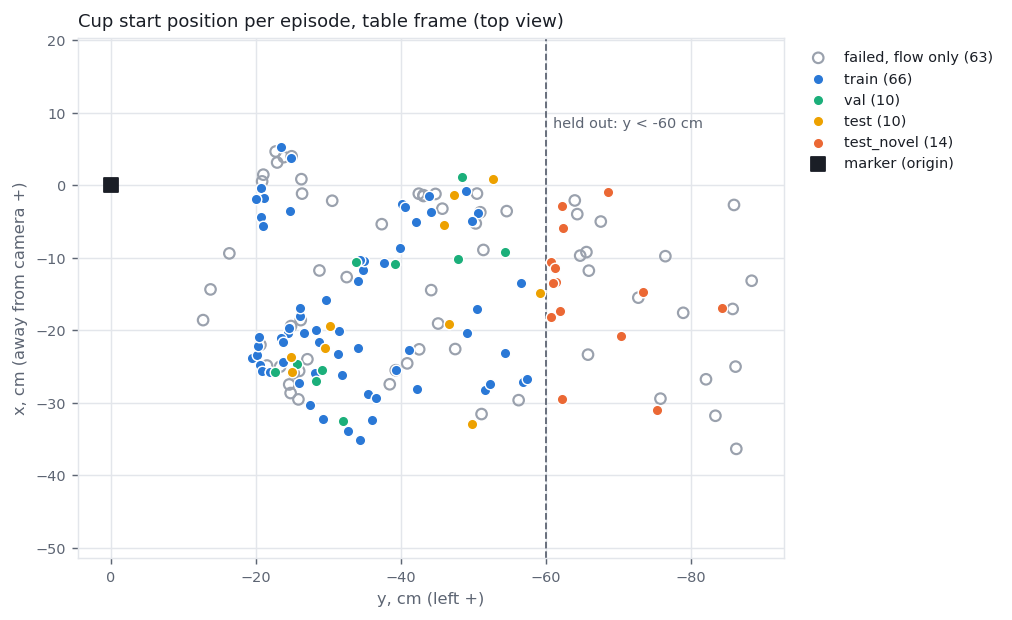
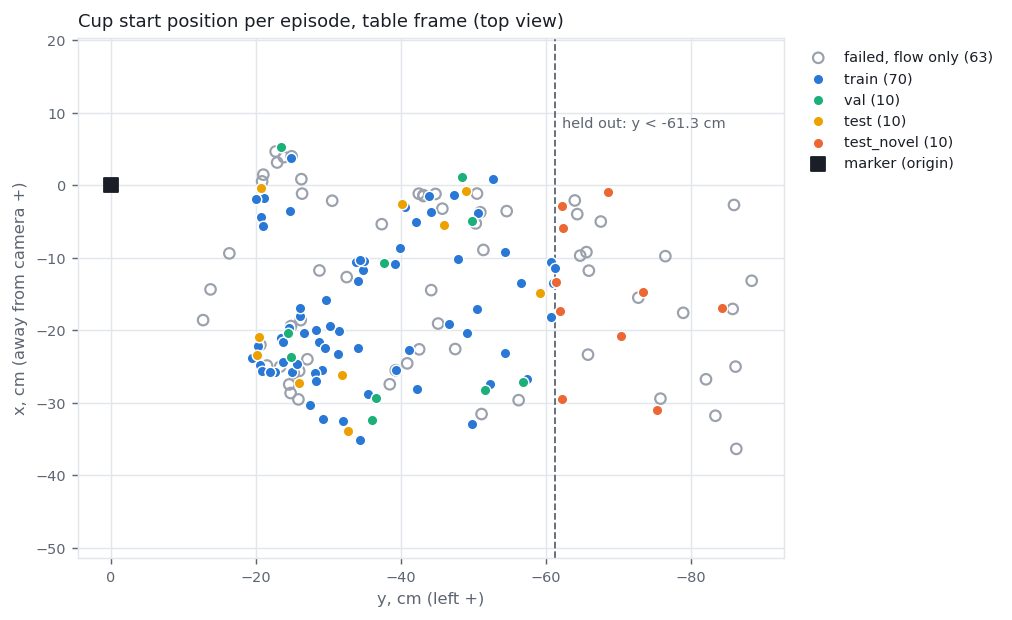
4.5: held-out line at cup y < -61.3 cm: train 70 / val 10 / test 10 / test_novel 10

diff --git a/docs/steps/4.5-split.html b/docs/steps/4.5-split.html
@@ -45,18 +45,18 @@ img.result { display: block; width: 100%; max-width: 100%; border-radius: 6px; b
   </header>
 
   <figure>
-    <img class="result" src="media/phase4/task5/splits.png" alt="Top view of the table frame with one dot per episode at the cup's start position, coloured by split. Train, val and test dots fill y from -19 to -59 cm; the 14 test_novel dots all lie beyond the dashed line at y = -60 cm; failed episodes are hollow grey rings, many of them beyond the line too.">
-    <figcaption>Cup start position per episode (mean of the mug flow points at the first step), table frame. Dashed line: held-out region, y &lt; −60 cm.</figcaption>
+    <img class="result" src="media/phase4/task5/splits.png" alt="Top view of the table frame with one dot per episode at the cup's start position, coloured by split. Train, val and test dots fill y from -19 to -59 cm; the 10 test_novel dots all lie beyond the dashed line at y = -61.3 cm; failed episodes are hollow grey rings, many of them beyond the line too.">
+    <figcaption>Cup start position per episode (mean of the mug flow points at the first step), table frame. Dashed line: held-out region, y &lt; −61.3 cm.</figcaption>
   </figure>
 
   <div class="scroll">
     <table>
       <thead><tr><th>split</th><th>episodes</th><th>sim steps</th><th>cup y (cm)</th></tr></thead>
       <tbody>
-        <tr><th scope="row">train</th><td>66</td><td>12,195</td><td>−57 … −19</td></tr>
-        <tr><th scope="row">val</th><td>10</td><td>1,792</td><td>−54 … −23</td></tr>
-        <tr><th scope="row">test</th><td>10</td><td>1,845</td><td>−59 … −25</td></tr>
-        <tr><th scope="row">test_novel</th><td>14</td><td>2,790</td><td>−84 … −61</td></tr>
+        <tr><th scope="row">train</th><td>70</td><td>12,845</td><td>−61 … −19</td></tr>
+        <tr><th scope="row">val</th><td>10</td><td>1,938</td><td>−57 … −23</td></tr>
+        <tr><th scope="row">test</th><td>10</td><td>1,854</td><td>−59 … −20</td></tr>
+        <tr><th scope="row">test_novel</th><td>10</td><td>1,985</td><td>−84 … −61</td></tr>
         <tr><th scope="row">failed, flow only</th><td>45</td><td>–</td><td>−56 … −13</td></tr>
         <tr><th scope="row">failed in the held-out region (not for training)</th><td>18</td><td>–</td><td>−88 … −64</td></tr>
       </tbody>
@@ -64,8 +64,8 @@ img.result { display: block; width: 100%; max-width: 100%; border-radius: 6px; b
   </div>
 
   <ul class="notes">
-    <li>train / val / test: the 86 kept episodes outside the region, shuffled with seed 0.</li>
-    <li>The held-out region is also where replays fail most: 18 of the 63 failed episodes vs 14 of the 100 kept. There the cup is 0.8–1 m from the camera, where D405 depth reads 2–4% short.</li>
+    <li>test_novel: the 10 kept episodes with the cup furthest right. The line is tight: the nearest train episode is 2 mm inside it. train / val / test: the other 90, shuffled with seed 0.</li>
+    <li>The held-out region is also where replays fail most: 18 of the 63 failed episodes vs 10 of the 100 kept. There the cup is 0.8–1 m from the camera, where D405 depth reads 2–4% short.</li>
     <li>The sim cup always starts at one spot, so for the sim robot test_novel means new absolute flow positions and plate offsets, not a new cup spot in sim.</li>
     <li>data/README.md: where the data lives (16 GB, not in git), every file and array in an episode folder, frames and clocks, why the 65 dropped episodes were dropped, how to regenerate.</li>
   </ul>

diff --git a/data/split.py b/data/split.py
@@ -3,7 +3,7 @@
   python data/split.py
 
 Cup position = mean xy of the 8 mug flow points at step 0 (flow.npz, table frame). Kept episodes with the cup more
-than 60 cm to the right of the marker (y < -0.60 m) form test_novel: a table region no training episode starts in.
+than 61.3 cm to the right of the marker (y < -0.613 m; 10 episodes) form test_novel: a table region no training episode starts in.
 The other kept episodes are shuffled (seed 0) into val (10), test (10) and train (the rest). Failed episodes (no sim
 actions, flow only) are listed apart; the ones in the held-out region go to failed_novel and must not be trained on.
 Also writes media/phase4/task5/splits.png (top view of the cup positions by split).
@@ -15,7 +15,7 @@ import numpy as np
 
 DATA = Path(__file__).resolve().parent
 MEDIA = DATA.parent / "media" / "phase4" / "task5"
-NOVEL_Y_M = -0.60
+NOVEL_Y_M = -0.613
 N_VAL = N_TEST = 10
 SEED = 0
 
@@ -50,7 +50,7 @@ def plot(splits):
         ax.scatter(xy[:, 1], xy[:, 0], s=34, label=label, facecolor=colour if filled else "none",
                    edgecolor="white" if filled else colour, linewidth=1.2 if not filled else 0.8, zorder=3 if filled else 2)
     ax.scatter([0], [0], marker="s", s=60, color=ink, zorder=4, label="marker (origin)")
-    ax.text(NOVEL_Y_M * 100 - 1, 8, "held out: y < -60 cm", color=muted, fontsize=8, ha="left")
+    ax.text(NOVEL_Y_M * 100 - 1, 8, "held out: y < -61.3 cm", color=muted, fontsize=8, ha="left")
     ax.invert_xaxis()
     ax.set_aspect("equal", adjustable="datalim")
     ax.set_xlabel("y, cm (left +)", color=muted, fontsize=9)

diff --git a/PROJECT_PLAN.md b/PROJECT_PLAN.md
@@ -189,7 +189,7 @@ Dropped after step 1.9. Offline replay of a recorded video already gets the sim 
 - **4.3** `replay/record_sim.py` → `sim.npz` per kept episode: per control step (20 Hz) the action sent, joint position/velocity, gripper fingers, end-effector pose, cup/plate state, third-person camera (256 × 256) and gripper camera (128 × 128), plus the real-video time each step follows and the table → sim offset (sim grasp point − real grasp point) that puts the hand flow on the robot's path. Observations before each action. Third-person camera: LIBERO's agentview moved back and up (50° above the table, 1.7 m from the workspace centre, `sim/scene.py` THIRD_PERSON) because the plate left the default view in some episodes; it must be set after every reset (reset rebuilds the model). 100/101 succeed when recorded: 20261009_112930 failed (cup 1.5 cm from the plate centre; borderline set-down that passed in 4.2) and was moved to `data/mug_pnp_failed/`. **Dataset: 100 episodes**, 18,622 steps (142–265 per episode, median 177), 2.0 GB.
 - **4.4** `flow/run_flows.py`: per episode SAM 2 mug mask and timing (`flow/mug_sam.py`) → CoTracker hand + mug points → `flow.npz` (FORMAT.md) → `flow_overlay.mp4`; writes `<dataset>/flow_summary.json`. **Flow for 163/163 episodes with a hand track**: 100 kept + 63 failed (the other 2 failed episodes hung in MediaPipe and have no hand track). The step 3.4 click on the mug is replaced by SAM 2's automatic mask generator with a mug filter (area 2.5–30k px, h/w 0.85–1.9, fill > 0.6, median grey > 100; the mug in shadow is ~127, so the pilot's 140 missed it), picking the candidate nearest the hand's first pinch; in 3 failed episodes the mug was not found in frame 0 and the last frame was used. Masks propagated forwards and backwards. Grasp/release times now come from the mug's motion (mask base on the table plane moves > 2 cm from its start / is within 2 cm of its end), not from the hand, because the hand events are wrong in many failed episodes (e.g. 112033: hand grasp at 5.15 s, mug moves at 3.47 s); 12 failed episodes have no grasp from the hand track (no grasp found or hand lost) and still get a flow; in the others the hand events differ from the mug motion by up to 3.8 s. Kept episodes: the mug starts moving a median 0.54 s after the hand pinch closes (p10–p90 0.23–0.90 s) and stops 0.73 s before the hand opens (0.35–1.20 s); failed: −0.45…1.62 s and −1.07…1.50 s. 10,391 flow steps at 10 Hz (44–105 per episode). Hand visible median 98% (min 91%), mug visible median 88% kept / 85% failed (min 40% / 32%; the hand covers the mug while carrying). Run time 56 min on the RTX 5090 (6 test episodes done earlier). Checked by eye on the overlays of 6 test episodes and the 4 in the report, not on all 163. **Flow vs sim robot** (100 kept, `replay/record_sim.py --video --flow` projects the flow + sim_minus_real into the third-person camera): while carrying, the flow pinch point is a median 2 mm (max 2.3 cm) from the replay target, so the flow is the robot's commanded path; the gripper lags that target by ~0.2 s (4 steps): 5.4 cm median at the same step, 1.0 cm (p90 3.0 cm) with the lag removed. The mug flow + offset is a median 6.9 cm from the sim cup in xy at the start (fixed sim grasp spot vs where I grasped the real rim), so for the mug flow the offset should be from the cup, not the grasp point. **Flow on the robot's clock:** `flow/sim_clock.py` → `flow_sim.npz` per kept episode, one row per `sim.npz` step (20 Hz), flow.npz interpolated at the real time each sim step follows; the 55 inserted steps per episode (grasp settle/close, release hold/rise, final 1 s) hold the flow still. Same length as the robot data (median 177 steps vs 61 flow steps at 10 Hz on the real clock). Sample at sim step i = rows i:i+32:2 (FORMAT.md).
 
-- **4.5** `data/split.py` → `data/splits.json`, by episode. Cup position = mean xy of the mug flow points at step 0. **test_novel** = the 14 kept episodes with the cup > 60 cm to the right of the marker (y < −0.60 m); no other split starts there. The other 86, shuffled with seed 0: **train 66** (12,195 sim steps), **val 10**, **test 10**. Failed episodes with flow are listed as flow-only extra data: 45 outside the region, 18 inside (`failed_novel`, not to be trained on). The far-right region is where replays fail most: 18 of 63 failed vs 14 of 100 kept (cup 0.8–1 m from the camera, where D405 depth reads 2–4% short). In sim the cup always starts at one spot, so test_novel means new absolute flow positions and plate offsets for the policy, not a new sim cup position. `data/README.md` documents where the data lives, every per-episode file and key, the frames and clocks, and the drop reasons (65: 12 no grasp in the hand track, 6 hand lost, 2 MediaPipe hung, 8 cup not lifted, 36 put down 3–37 cm off the plate, 1 failed on the 4.3 re-run). `data/README.md`, `split.py` and `splits.json` are committed (`.gitignore` exceptions); the episodes are not.
+- **4.5** `data/split.py` → `data/splits.json`, by episode. Cup position = mean xy of the mug flow points at step 0. **test_novel** = the 10 kept episodes with the cup furthest right (y < −0.613 m; first −0.60 m with 14, moved to get train 70 / test_novel 10; the nearest train episode is 2 mm inside the line); no other split starts there. The other 90, shuffled with seed 0: **train 70** (12,845 sim steps), **val 10**, **test 10**. Failed episodes with flow are listed as flow-only extra data: 45 outside the region, 18 inside (`failed_novel`, not to be trained on). The far-right region is where replays fail most: 18 of 63 failed vs 10 of 100 kept (cup 0.8–1 m from the camera, where D405 depth reads 2–4% short). In sim the cup always starts at one spot, so test_novel means new absolute flow positions and plate offsets for the policy, not a new sim cup position. `data/README.md` documents where the data lives, every per-episode file and key, the frames and clocks, and the drop reasons (65: 12 no grasp in the hand track, 6 hand lost, 2 MediaPipe hung, 8 cup not lifted, 36 put down 3–37 cm off the plate, 1 failed on the 4.3 re-run). `data/README.md`, `split.py` and `splits.json` are committed (`.gitignore` exceptions); the episodes are not.
 
 ### Watch out for
 

diff --git a/data/README.md b/data/README.md
@@ -42,20 +42,20 @@ release threshold, so the robot let go mid-carry. Details per batch: `PROJECT_PL
 
 Split by episode. Cup position = mean xy of the 8 mug flow points at the first step (table frame).
 
-| split | episodes | sim steps | cup x (cm) | cup y (cm) |
-|---|---|---|---|---|
-| train | 66 | 12,195 | −35 … 5 | −57 … −19 |
-| val | 10 | 1,792 | −33 … 1 | −54 … −23 |
-| test | 10 | 1,845 | −33 … 1 | −59 … −25 |
-| test_novel | 14 | 2,790 | −31 … −1 | −84 … −61 |
-| failed (flow only) | 45 | – | −32 … 5 | −56 … −13 |
-| failed_novel (flow only) | 18 | – | −36 … −2 | −88 … −64 |
+| split | episodes | sim steps | cup y (cm) |
+|---|---|---|---|
+| train | 70 | 12,845 | −61 … −19 |
+| val | 10 | 1,938 | −57 … −23 |
+| test | 10 | 1,854 | −59 … −20 |
+| test_novel | 10 | 1,985 | −84 … −61 |
+| failed (flow only) | 45 | – | −56 … −13 |
+| failed_novel (flow only) | 18 | – | −88 … −64 |
 
-- `test_novel`: every kept episode with the cup more than 60 cm to the right of the marker (y < −0.60 m). No
-  train/val/test episode starts there. The rest are shuffled with seed 0.
+- `test_novel`: the 10 kept episodes with the cup furthest to the right of the marker (y < −0.613 m). No
+  train/val/test episode starts there, but the boundary is tight: the nearest train episode is 2 mm inside it. The rest are shuffled with seed 0.
 - `failed` episodes have flow but no sim actions; they can add flow-only training data (e.g. Phase 6).
   `failed_novel` are in the held-out region and must not be trained on.
-- The far-right region fails more often: 18 of the 63 failed episodes with flow are there, vs 14 of the 100 kept
+- The far-right region fails more often: 18 of the 63 failed episodes with flow are there, vs 10 of the 100 kept
   (the cup is 0.8–1 m from the camera there, where D405 depth reads 2–4% short).
 - In sim the cup always starts at the same spot (−0.11, 0) and only the plate moves (cup + the real cup→plate
   offset), so for the sim robot `test_novel` means new absolute flow positions and plate offsets, not a new cup spot.
